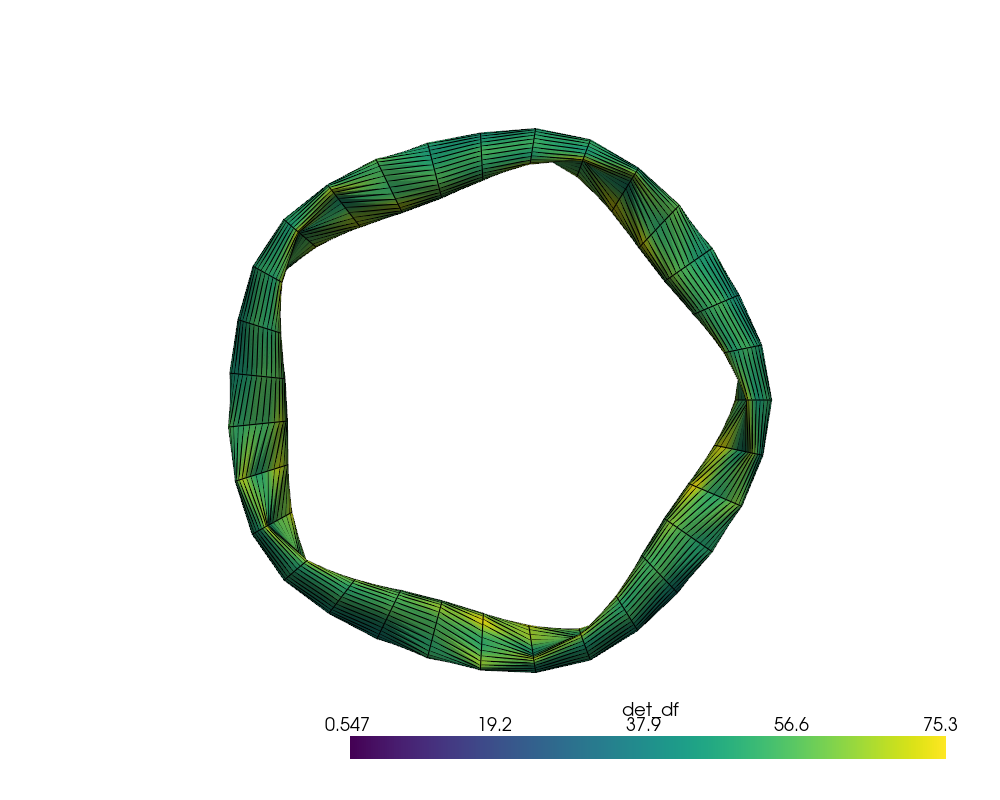
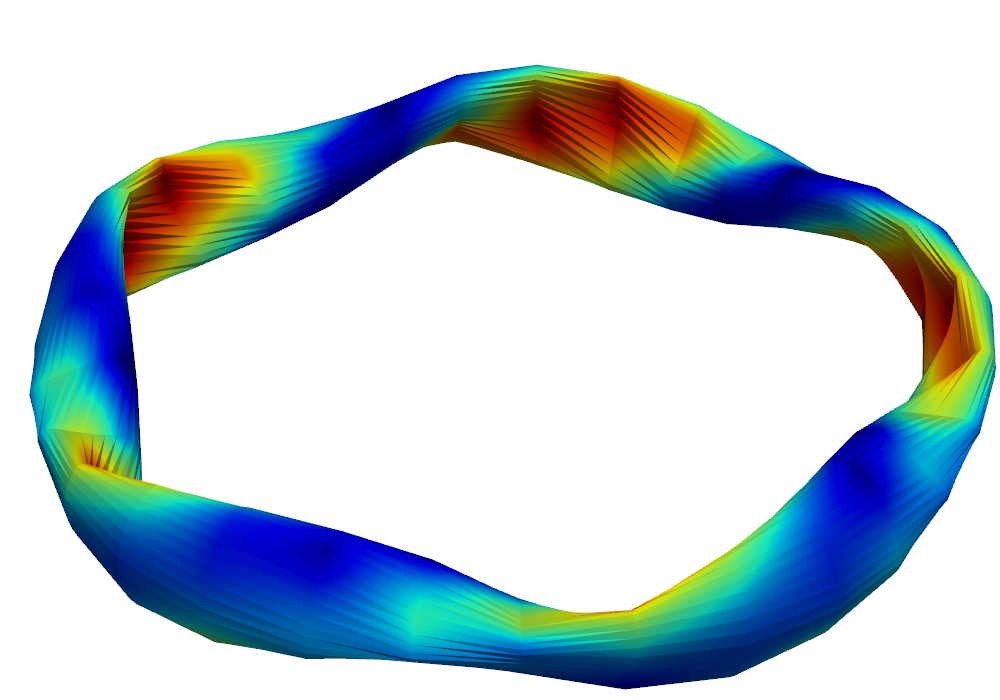
Update readme

diff --git a/README.md b/README.md
@@ -76,28 +76,6 @@ In case you face troubles with install/compile:
 2.  visit [trouble
     shooting](https://struphy-hub.github.io/struphy/sections/install.html#trouble-shooting)
 
-## Docker
-
-If you want to get started right away without installing anything, you
-can use the [Docker image](https://hub.docker.com/r/spossann/struphy) -
-just pull and run:
-
-    docker pull spossann/struphy:main
-    docker run -it --rm spossann/struphy:main
-    ls struphy_*
-
-This will show three available Struphy environments, which you can
-activate for example via
-
-    source struphy_fortran_/env_fortran_/bin/activate
-
-There is also a [Docker image with just the
-prerequisites](https://hub.docker.com/r/spossann/ubuntu-for-struphy) (on
-Ubuntu), so you can install and compile Struphy on top of it yourself:
-
-    docker pull spossann/ubuntu-for-struphy:main
-    docker run -it --rm spossann/ubuntu-for-struphy:main
-
 ## Quick run
 
 As an example, let's say we want to solve Maxwell's equations. We can
@@ -121,7 +99,7 @@ Parallel simulations are run for example with
 
 You can also put the run command in a batch script.
 
-# Quickstart
+### Python API
 
 ::: {.cell execution_count="1"}
 ``` {.python .cell-code}
@@ -156,10 +134,16 @@ import pyvista as pv
 # Read the VTS file
 mesh = pv.read("sim_1/geometry.vts")
 
-# Create a plotter with custom settings
-plotter = pv.Plotter(window_size=[1000, 800])
-plotter.add_mesh(mesh, show_edges=True, cmap="viridis")
-plotter.camera_position = "xy"  # Set camera angle
+plotter = pv.Plotter(window_size=[1000, 700])
+
+plotter.add_mesh(
+    mesh,
+    scalars="absB0",
+    cmap="jet",
+    show_scalar_bar=False,
+)
+plotter.view_isometric()
+plotter.camera.zoom(2.0)
 plotter.show()
 ```
 
@@ -167,6 +151,28 @@ plotter.show()
 ![](README_files/figure-markdown/cell-3-output-1.png)
 :::
 ::::
+
+## Docker
+
+If you want to get started right away without installing anything, you
+can use the [Docker image](https://hub.docker.com/r/spossann/struphy) -
+just pull and run:
+
+    docker pull spossann/struphy:main
+    docker run -it --rm spossann/struphy:main
+    ls struphy_*
+
+This will show three available Struphy environments, which you can
+activate for example via
+
+    source struphy_fortran_/env_fortran_/bin/activate
+
+There is also a [Docker image with just the
+prerequisites](https://hub.docker.com/r/spossann/ubuntu-for-struphy) (on
+Ubuntu), so you can install and compile Struphy on top of it yourself:
+
+    docker pull spossann/ubuntu-for-struphy:main
+    docker run -it --rm spossann/ubuntu-for-struphy:main
 
 ## Documentation
 
